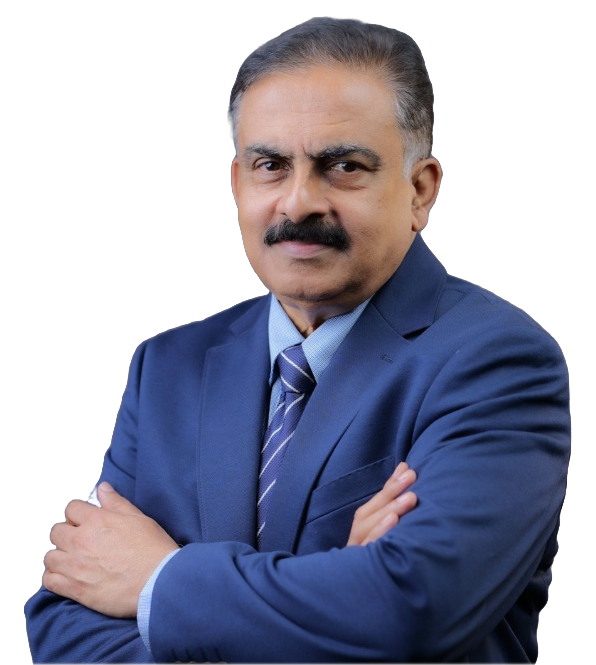
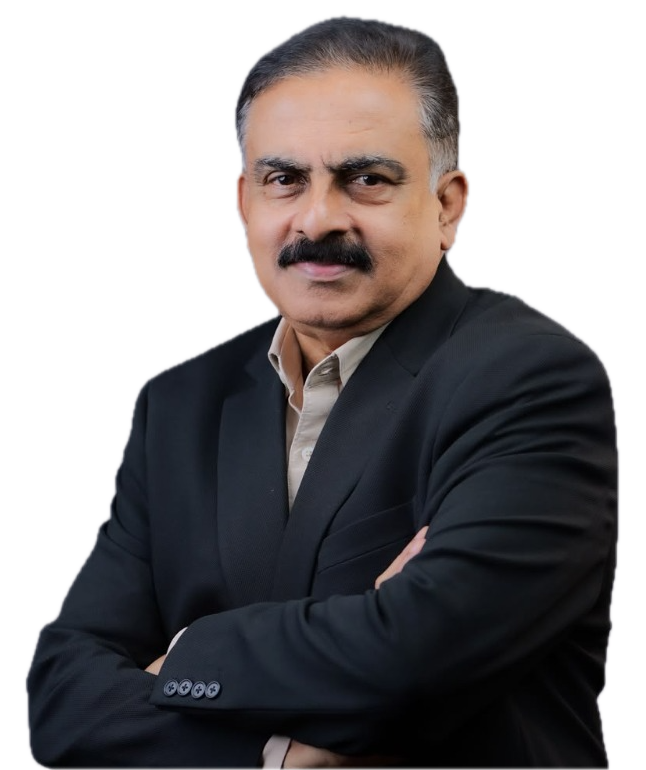
feat(hero): replace blue suit with black suit portrait and optimize mobile view with clean, unobstructed layout

diff --git a/src/styles/components.css b/src/styles/components.css
@@ -977,8 +977,8 @@
 /* FLOATING CARD 1: Top Left - 3 Disciplines */
 .floating-disciplines-card {
   position: absolute;
-  top: 8%;
-  left: -8%;
+  top: 10%;
+  left: -14%;
   border-radius: 20px;
   padding: 14px 18px;
   display: flex;
@@ -1033,8 +1033,8 @@
 /* FLOATING CARD 2: Floating Overlay on Doctor Right */
 .floating-doctor-profile-card {
   position: absolute;
-  bottom: 12%;
-  right: -8%;
+  bottom: 8%;
+  right: -12%;
   border-radius: 18px;
   padding: 14px 18px;
   display: flex;
@@ -1139,7 +1139,7 @@
 .floating-companion-pill {
   position: absolute;
   bottom: -4%;
-  left: -4%;
+  left: -8%;
   border-radius: 999px;
   padding: 10px 18px;
   display: flex;
@@ -1178,6 +1178,15 @@
   font-family: var(--font-body);
   font-size: 0.65rem;
   color: rgba(250, 247, 242, 0.7);
+}
+
+/* Mobile-Only Elegance Features (Hidden on Desktop) */
+.hero-mobile-disciplines-strip {
+  display: none;
+}
+
+.hero-mobile-doctor-card {
+  display: none;
 }
 
 /* Bottom credentials row */
@@ -3813,19 +3822,23 @@
   }
 
   .hero-visual-stage {
-    max-width: 440px;
+    max-width: 400px;
   }
 
   .floating-disciplines-card {
-    left: -2%;
+    top: 6%;
+    left: -6%;
+    padding: 10px 14px;
   }
 
   .floating-doctor-profile-card {
-    right: -2%;
+    bottom: 6%;
+    right: -6%;
+    padding: 10px 14px;
   }
 
   .floating-companion-pill {
-    left: 0;
+    display: none;
   }
 
   .hero-bottom-credentials {
@@ -4004,50 +4017,125 @@
   }
 
   .hero-visual-stage {
-    max-width: 360px;
+    max-width: 320px;
+    margin: 0 auto;
   }
 
-  .floating-disciplines-card {
-    padding: 10px 14px;
-    gap: 8px;
-    left: -2%;
-  }
-
-  .discipline-icon-box {
-    width: 26px;
-    height: 26px;
-  }
-
-  .discipline-title {
-    font-size: 0.6875rem;
-  }
-
-  .discipline-sub {
-    font-size: 0.6rem;
-  }
-
-  .floating-doctor-profile-card {
-    padding: 10px 14px;
-    right: -2%;
-  }
-
-  .doctor-avatar-circle {
-    width: 36px;
-    height: 36px;
-  }
-
-  .profile-name {
-    font-size: 0.8125rem;
-  }
-
-  .profile-role,
-  .profile-rating-line,
-  .profile-status-pill {
-    font-size: 0.625rem;
-  }
-
+  /* Completely hide floating cards on mobile so they NEVER cover Dr. Jem's face */
+  .floating-disciplines-card,
+  .floating-doctor-profile-card,
   .floating-companion-pill {
-    display: none;
+    display: none !important;
+  }
+
+  /* Show dedicated, clean mobile disciplines strip underneath doctor frame */
+  .hero-mobile-disciplines-strip {
+    display: flex;
+    align-items: center;
+    justify-content: center;
+    gap: 8px;
+    flex-wrap: wrap;
+    margin-top: 18px;
+    width: 100%;
+  }
+
+  .mobile-disc-pill {
+    display: inline-flex;
+    align-items: center;
+    gap: 6px;
+    padding: 6px 14px;
+    border-radius: 999px;
+    background: rgba(200, 169, 106, 0.08);
+    border: 1px solid rgba(200, 169, 106, 0.32);
+    color: #faf7f2;
+    font-family: var(--font-body);
+    font-size: 0.75rem;
+    font-weight: 500;
+  }
+
+  .disc-dot {
+    width: 5px;
+    height: 5px;
+    border-radius: 50%;
+    background: var(--color-accent);
+    box-shadow: 0 0 6px var(--color-accent);
+  }
+
+  /* Show dedicated, premium mobile doctor credentials card */
+  .hero-mobile-doctor-card {
+    display: flex;
+    align-items: center;
+    gap: 12px;
+    margin-top: 12px;
+    padding: 12px 16px;
+    border-radius: 16px;
+    background: rgba(16, 16, 16, 0.95);
+    border: 1px solid rgba(200, 169, 106, 0.3);
+    box-shadow: 0 10px 25px rgba(0, 0, 0, 0.6);
+    width: 100%;
+    max-width: 360px;
+    margin-left: auto;
+    margin-right: auto;
+  }
+
+  .mobile-doc-avatar {
+    width: 46px;
+    height: 46px;
+    border-radius: 50%;
+    border: 1.5px solid var(--color-accent);
+    overflow: hidden;
+    flex-shrink: 0;
+  }
+
+  .mobile-doc-avatar img {
+    width: 100%;
+    height: 100%;
+    object-fit: cover;
+    display: block;
+  }
+
+  .mobile-doc-meta {
+    display: flex;
+    flex-direction: column;
+    gap: 2px;
+    text-align: left;
+    min-width: 0;
+  }
+
+  .mobile-doc-name-row {
+    display: flex;
+    align-items: center;
+    justify-content: space-between;
+    gap: 8px;
+  }
+
+  .mobile-doc-name-row .name {
+    font-family: var(--font-display);
+    font-size: 0.9375rem;
+    font-weight: 600;
+    color: #ffffff;
+  }
+
+  .mobile-doc-name-row .rating {
+    font-size: 0.75rem;
+    font-weight: 700;
+    color: var(--color-accent);
+  }
+
+  .mobile-doc-meta .role {
+    font-family: var(--font-body);
+    font-size: 0.6875rem;
+    color: rgba(250, 247, 242, 0.75);
+    white-space: nowrap;
+    overflow: hidden;
+    text-overflow: ellipsis;
+  }
+
+  .mobile-doc-meta .loc {
+    font-family: var(--font-body);
+    font-size: 0.6875rem;
+    color: #4ade80;
+    font-weight: 500;
   }
 
   .hero-bottom-credentials {

diff --git a/src/components/HeroSection.tsx b/src/components/HeroSection.tsx
@@ -113,7 +113,7 @@ export const HeroSection: React.FC<HeroSectionProps> = ({ onRequestSecondOpinion
                 <div className="frame-inner-glow" />
               </div>
 
-              {/* Doctor Cutout Silhouette (Cropped at hands, scaled prominently) */}
+              {/* Doctor Cutout Silhouette (Black suit studio portrait cropped cleanly at hands) */}
               <div className="stage-doctor-cutout-wrap">
                 <img
                   src="/images/dr_jem_kalathil_cutout.png"
@@ -124,7 +124,7 @@ export const HeroSection: React.FC<HeroSectionProps> = ({ onRequestSecondOpinion
                 />
               </div>
 
-              {/* FLOATING CARD 1: Top Left - 3 Clinical Disciplines (Modeled after reference badge) */}
+              {/* FLOATING CARD 1: Top Left - 3 Clinical Disciplines (Desktop view) */}
               <div className="floating-card floating-disciplines-card" aria-label="Key Clinical Pillars">
                 <div className="discipline-item">
                   <div className="discipline-icon-box" aria-hidden="true">
@@ -165,7 +165,7 @@ export const HeroSection: React.FC<HeroSectionProps> = ({ onRequestSecondOpinion
                 </div>
               </div>
 
-              {/* FLOATING CARD 2: Floating Overlay on Doctor Right (Modeled after reference profile card) */}
+              {/* FLOATING CARD 2: Floating Overlay on Doctor Right (Desktop view) */}
               <div className="floating-card floating-doctor-profile-card">
                 <div className="doctor-profile-row">
                   <div className="doctor-avatar-circle">
@@ -187,7 +187,7 @@ export const HeroSection: React.FC<HeroSectionProps> = ({ onRequestSecondOpinion
                 </div>
               </div>
 
-              {/* FLOATING CARD 3: Floating Bottom Left (Modeled after reference bottom pill) */}
+              {/* FLOATING CARD 3: Floating Bottom Left (Desktop view) */}
               <div className="floating-card floating-companion-pill">
                 <div className="companion-icon-wrap" aria-hidden="true">
                   <svg width="16" height="16" viewBox="0 0 24 24" fill="none" stroke="currentColor" strokeWidth="2">
@@ -201,6 +201,38 @@ export const HeroSection: React.FC<HeroSectionProps> = ({ onRequestSecondOpinion
               </div>
 
             </div>
+
+            {/* Mobile-Only Premium Clinical Feature Strip (Underneath Doctor Portrait on Mobile) */}
+            <div className="hero-mobile-disciplines-strip" aria-label="Core Clinical Focus Areas">
+              <div className="mobile-disc-pill">
+                <span className="disc-dot" aria-hidden="true" />
+                <span>Breast Oncoplasty</span>
+              </div>
+              <div className="mobile-disc-pill">
+                <span className="disc-dot" aria-hidden="true" />
+                <span>Advanced HIPEC</span>
+              </div>
+              <div className="mobile-disc-pill">
+                <span className="disc-dot" aria-hidden="true" />
+                <span>Robotic Precision</span>
+              </div>
+            </div>
+
+            {/* Mobile-Only Clean Trust & Location Card (Below doctor frame, zero obstruction) */}
+            <div className="hero-mobile-doctor-card">
+              <div className="mobile-doc-avatar">
+                <img src="/images/dr_jem_kalathil.jpg" alt="Dr. Jem Kalathil" />
+              </div>
+              <div className="mobile-doc-meta">
+                <div className="mobile-doc-name-row">
+                  <span className="name">Dr. Jem Kalathil</span>
+                  <span className="rating">★ 5.0</span>
+                </div>
+                <span className="role">Senior Consultant &amp; Head of Surgical Oncology</span>
+                <span className="loc">● OPD Consultations at Aster Medcity, Kochi</span>
+              </div>
+            </div>
+
           </div>
 
         </div>
